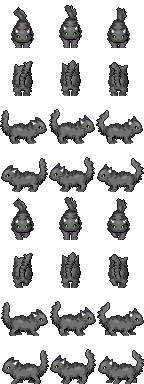
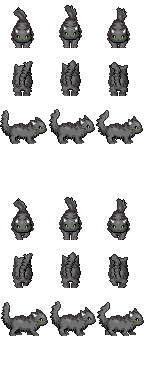
adjust cat anim

Changed region(s): [[0.0, 0.4062, 1.0, 0.5], [0.0, 0.9062, 1.0, 1.0]]

diff --git a/src/entities/Furry.js b/src/entities/Furry.js
@@ -16,6 +16,7 @@ export default class Furry extends Phaser.Physics.Arcade.Sprite {
         this.facing = 'down';
 
         this.createAnimations(scene);
+        this.anims.play('cat-idle');
         }
 
     createAnimations(scene) {
@@ -34,15 +35,8 @@ export default class Furry extends Phaser.Physics.Arcade.Sprite {
     });
 
     scene.anims.create({
-        key: 'cat-idle-right',
+        key: 'cat-idle-side',
         frames: scene.anims.generateFrameNumbers('cat', {start: 6, end: 8}),
-        frameRate: 1,
-        repeat: -1,
-    });
-
-    scene.anims.create({
-        key: 'cat-idle-left',
-        frames: scene.anims.generateFrameNumbers('cat', {start: 9, end: 11}),
         frameRate: 1,
         repeat: -1,
     });
@@ -62,19 +56,26 @@ export default class Furry extends Phaser.Physics.Arcade.Sprite {
     });
 
     scene.anims.create({
-        key: 'cat-walk-right',
+        key: 'cat-walk-sideways',
         frames: scene.anims.generateFrameNumbers('cat', {start: 18, end: 20}),
         frameRate: 1,
         repeat: -1,
     });
 
-    scene.anims.create({
-        key: 'cat-walk-left',
-        frames: scene.anims.generateFrameNumbers('cat', {start: 21, end: 23}),
-        frameRate: 1,
-        repeat: -1,
-    });
+    }
 
+    playIdle() {
+        switch (this.facing) {
+            case 'up':
+                this.anims.play('cat-idle-up', true);
+                break;
+            case 'down':
+                this.anims.play('cat-idle-down', true);
+                break;
+            case 'side':
+                this.anims.play('cat-idle-side', true);
+                break;
+        }
     }
 
 }
